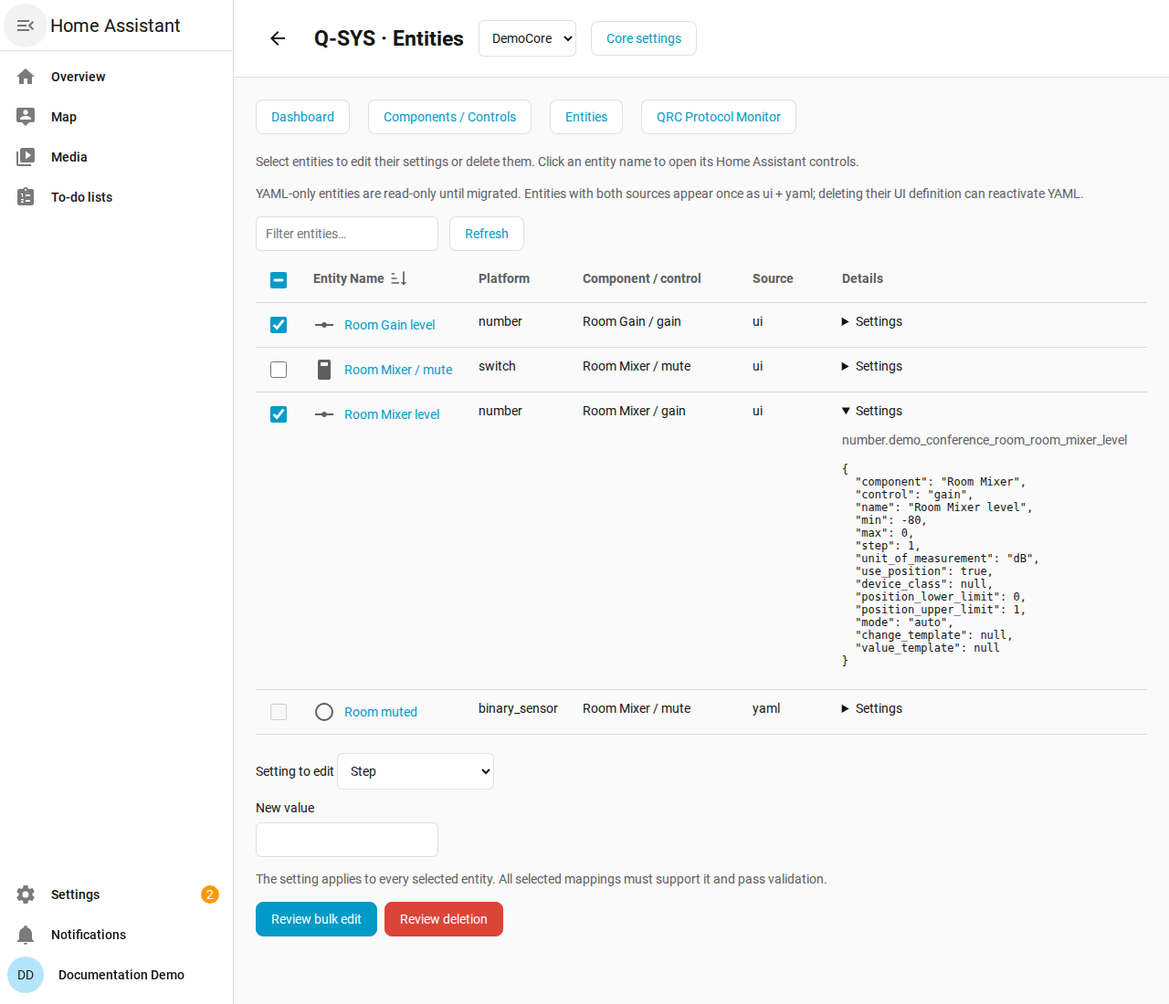
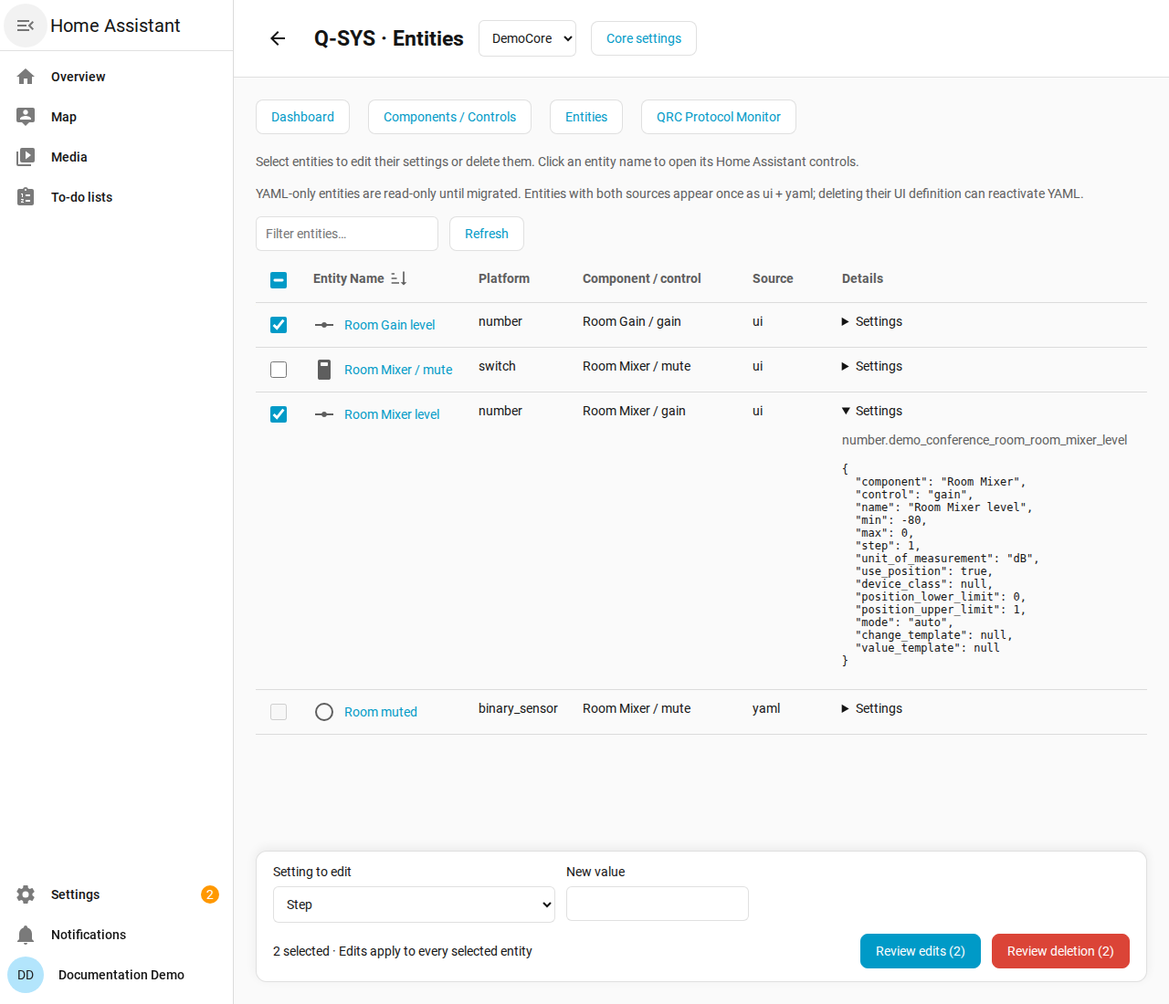
Pin entity editing and deletion actions with consistent review counts

diff --git a/custom_components/qsys_qrc/frontend/panel.js b/custom_components/qsys_qrc/frontend/panel.js
@@ -73,9 +73,9 @@ class QsysPanel extends HTMLElement {
     this.cancelledTraversal=null;
     if(pending.discard)history.go(pending.delta);
   }
-  updateCreationHeight(){if(this.view==='browser'){const height=Math.max(0,document.documentElement.clientHeight-Math.max(0,this.getBoundingClientRect().top));this.style.setProperty('--qsys-panel-height',`${height}px`);}}
-  connectedCallback() { this.resizeCreationPanel=()=>this.updateCreationHeight();window.addEventListener('resize',this.resizeCreationPanel);this.installLeaveGuard(); if(this._hass&&!this.started){this.started=true;this.run(()=>this.initialize());} this.timer=setInterval(()=>{if(this.view==='monitor'&&!this.paused&&!this.busy)this.refreshMonitor();if(this.view==='browser'&&this.selectedComponents.size&&this.controls.length&&!this.busy&&!this.polling)this.pollValues();},1500); }
-  disconnectedCallback(){ window.removeEventListener('resize',this.resizeCreationPanel);clearInterval(this.timer);this.entityEventGeneration=(this.entityEventGeneration||0)+1;this.entityEventsUnsubscribe?.();this.entityEventsUnsubscribe=null;this.pendingEntityInventory=null;this.started=false;window.navigation?.removeEventListener('navigate',this.leaveTraverse);window.removeEventListener('beforeunload',this.beforeUnload);window.removeEventListener('click',this.leaveClick,true);window.removeEventListener('location-changed',this.leaveLocation,true);window.removeEventListener('popstate',this.leaveLocation,true); }
+  updateActionPanelHeight(){if(['browser','entities'].includes(this.view)){const height=Math.max(0,document.documentElement.clientHeight-Math.max(0,this.getBoundingClientRect().top));this.style.setProperty('--qsys-panel-height',`${height}px`);}}
+  connectedCallback() { this.resizeActionPanel=()=>this.updateActionPanelHeight();window.addEventListener('resize',this.resizeActionPanel);this.installLeaveGuard(); if(this._hass&&!this.started){this.started=true;this.run(()=>this.initialize());} this.timer=setInterval(()=>{if(this.view==='monitor'&&!this.paused&&!this.busy)this.refreshMonitor();if(this.view==='browser'&&this.selectedComponents.size&&this.controls.length&&!this.busy&&!this.polling)this.pollValues();},1500); }
+  disconnectedCallback(){ window.removeEventListener('resize',this.resizeActionPanel);clearInterval(this.timer);this.entityEventGeneration=(this.entityEventGeneration||0)+1;this.entityEventsUnsubscribe?.();this.entityEventsUnsubscribe=null;this.pendingEntityInventory=null;this.started=false;window.navigation?.removeEventListener('navigate',this.leaveTraverse);window.removeEventListener('beforeunload',this.beforeUnload);window.removeEventListener('click',this.leaveClick,true);window.removeEventListener('location-changed',this.leaveLocation,true);window.removeEventListener('popstate',this.leaveLocation,true); }
   async api(operation,params={}) {return this._hass.callWS({type:'qsys_qrc/panel',operation,...(this.entry?{entry_id:this.entry}:{}),...params});}
   async run(fn){if(this.busy)return;this.actionFocus=this.shadowRoot.activeElement?.dataset.action;this.captureForm();this.busy=true;this.error='';this.shadowRoot.querySelectorAll('button,input,select,textarea').forEach(b=>b.disabled=true);try{await fn();}catch(e){this.error=e.message||String(e);}finally{this.busy=false;this.render();if(this.pendingRoute){this.pendingRoute=false;this.routeChanged();}this.refreshEntityInventory();}}
   async load(){const data=await this.api('overview');this.cores=data.cores;if(!this.cores.some(c=>c.entry_id===this.entry))this.entry=this.cores[0]?.entry_id;}
@@ -383,6 +383,7 @@ class QsysPanel extends HTMLElement {
   helpTooltip(id,label,text){
     return `<span class="help"><button type="button" class="help-icon" aria-label="About ${escapeHTML(label)}" aria-describedby="help-${id}">?</button><span class="help-tooltip" role="tooltip" id="help-${id}">${escapeHTML(text)}</span></span>`;
   }
+  renderEntityBar(){return `<section class="action-bar entity-action-bar" aria-label="Manage selected entities"><div class="edit-controls"><label>Setting to edit <select id="edit-field">${this.editableFields().map(([v,label])=>`<option value="${v}" ${(this.editField||'name')===v?'selected':''}>${label}</option>`).join('')}</select></label>${this.editInput()}</div><div class="entity-action-footer"><span role="status">${this.selected.size} selected · Edits apply to every selected entity</span><div class="entity-actions">${this.button(`Review edits (${this.selected.size})`,'edit',this.selected.size?'class="filled"':'disabled')}${this.button(`Review deletion (${this.selected.size})`,'delete',`class="danger ${this.selected.size?'filled':''}" ${this.selected.size?'':'disabled'}`)}</div></div></section>`;}
   renderCreationBar(){return `<div class="action-bar" aria-label="Create entities"><span role="status">${this.selected.size} selected for creation</span>${this.button(`Review creation (${this.selected.size})`,'create',this.selected.size?'class="filled"':'disabled')}</div>`;}
   renderBrowser(){
     const sortedControls=this.sortedRows(this.controls,'controls');
@@ -402,7 +403,7 @@ class QsysPanel extends HTMLElement {
       icon.stateObj=this._hass?.states[row.entity_id]||{entity_id:row.entity_id||`${row.mapping.platform}.qsys_preview`,state:'unavailable',attributes:{device_class:row.mapping.settings.device_class}};
     });
   }
-  renderEntities(migrate=false){return `<p>${migrate?'Select definitions configured via Home Assistant YAML to transfer ownership to the UI. Remove transferred definitions from your YAML files afterward.':'Select entities to edit their settings or delete them. Click an entity name to open its Home Assistant controls.'}</p>${this.inventory.some(row=>row.source==='yaml')?'<p>YAML-only entities are read-only until migrated. Entities with both sources appear once as ui + yaml; deleting their UI definition can reactivate YAML.</p>':''}${!this.entityRows(migrate).length?`<section class="empty-state"><h2>${migrate?'No YAML entities to migrate':'No entities yet'}</h2><p>${migrate?'This Core has no entity definitions in Home Assistant YAML.':'Choose components or look up Named Controls to create your first entities.'}</p>${migrate?'':this.button('Add entities','navigate','data-view="browser" class="filled"')}</section>`:''}${this.toolbar()}<div class="table"><table><thead><tr><th><input id="all" type="checkbox" aria-label="Select visible mappings"></th>${this.sortHeader('Entity Name','entities','name')}${this.sortHeader('Platform','entities','platform')}${this.sortHeader('Component / control','entities','target')}${this.sortHeader('Source','entities','source')}${this.sortHeader('Details','entities','details')}</tr></thead><tbody>${this.entityRows(migrate).map(({item:r,index:i})=>{const m=r.mapping,s=m.settings,enabled=migrate?r.source==='yaml':r.source==='ui';return `<tr data-entity-row="${i}" data-search="${escapeHTML([JSON.stringify(m),r.entity_name,r.entity_id,r.displaySource||r.source].filter(Boolean).join(' '))}"><td><input data-select="${i}" type="checkbox" aria-label="Select ${escapeHTML(s.name||s.control||s.component)}" ${enabled?'':'disabled'} ${this.selected.has(i)?'checked':''}></td><td>${this.entityNameCell(r,i)}</td><td>${m.platform}</td><td>${escapeHTML(s.component||'Named Control')} / ${escapeHTML(s.control||'media player')}</td><td>${r.displaySource||r.source}</td><td><details><summary>Settings</summary>${r.entity_id?`<p>${escapeHTML(r.entity_id)}</p>`:''}${r.cleanup_pending?'<p>Remove the transferred definition from Home Assistant YAML.</p>':''}${r.yaml_conflict?'<p>The definition configured via Home Assistant YAML changed after migration.</p>':''}<pre>${escapeHTML(JSON.stringify(s,null,2))}</pre></details></td></tr>`;}).join('')}</tbody></table></div>${migrate?`<label>Existing UI mappings <select id="collision"><option value="skip" ${this.collision!=='replace'?'selected':''}>Skip</option><option value="replace" ${this.collision==='replace'?'selected':''}>Replace</option></select></label>${this.button(`Review migration (${this.selected.size})`,'migrate',this.selected.size?'class="filled"':'disabled')}`:`<label>Setting to edit <select id="edit-field">${this.editableFields().map(([v,label])=>`<option value="${v}" ${(this.editField||'name')===v?'selected':''}>${label}</option>`).join('')}</select></label>${this.editInput()}<p>The setting applies to every selected entity. All selected mappings must support it and pass validation.</p>${this.button('Review bulk edit','edit',this.selected.size?'class="filled"':'disabled')}${this.button('Review deletion','delete',`class="danger ${this.selected.size?'filled':''}" ${this.selected.size?'':'disabled'}`)}`}`;}
+  renderEntities(migrate=false){return `<p>${migrate?'Select definitions configured via Home Assistant YAML to transfer ownership to the UI. Remove transferred definitions from your YAML files afterward.':'Select entities to edit their settings or delete them. Click an entity name to open its Home Assistant controls.'}</p>${this.inventory.some(row=>row.source==='yaml')?'<p>YAML-only entities are read-only until migrated. Entities with both sources appear once as ui + yaml; deleting their UI definition can reactivate YAML.</p>':''}${!this.entityRows(migrate).length?`<section class="empty-state"><h2>${migrate?'No YAML entities to migrate':'No entities yet'}</h2><p>${migrate?'This Core has no entity definitions in Home Assistant YAML.':'Choose components or look up Named Controls to create your first entities.'}</p>${migrate?'':this.button('Add entities','navigate','data-view="browser" class="filled"')}</section>`:''}${this.toolbar()}<div class="table"><table><thead><tr><th><input id="all" type="checkbox" aria-label="Select visible mappings"></th>${this.sortHeader('Entity Name','entities','name')}${this.sortHeader('Platform','entities','platform')}${this.sortHeader('Component / control','entities','target')}${this.sortHeader('Source','entities','source')}${this.sortHeader('Details','entities','details')}</tr></thead><tbody>${this.entityRows(migrate).map(({item:r,index:i})=>{const m=r.mapping,s=m.settings,enabled=migrate?r.source==='yaml':r.source==='ui';return `<tr data-entity-row="${i}" data-search="${escapeHTML([JSON.stringify(m),r.entity_name,r.entity_id,r.displaySource||r.source].filter(Boolean).join(' '))}"><td><input data-select="${i}" type="checkbox" aria-label="Select ${escapeHTML(s.name||s.control||s.component)}" ${enabled?'':'disabled'} ${this.selected.has(i)?'checked':''}></td><td>${this.entityNameCell(r,i)}</td><td>${m.platform}</td><td>${escapeHTML(s.component||'Named Control')} / ${escapeHTML(s.control||'media player')}</td><td>${r.displaySource||r.source}</td><td><details><summary>Settings</summary>${r.entity_id?`<p>${escapeHTML(r.entity_id)}</p>`:''}${r.cleanup_pending?'<p>Remove the transferred definition from Home Assistant YAML.</p>':''}${r.yaml_conflict?'<p>The definition configured via Home Assistant YAML changed after migration.</p>':''}<pre>${escapeHTML(JSON.stringify(s,null,2))}</pre></details></td></tr>`;}).join('')}</tbody></table></div>${migrate?`<label>Existing UI mappings <select id="collision"><option value="skip" ${this.collision!=='replace'?'selected':''}>Skip</option><option value="replace" ${this.collision==='replace'?'selected':''}>Replace</option></select></label>${this.button(`Review migration (${this.selected.size})`,'migrate',this.selected.size?'class="filled"':'disabled')}`:``}`;}
   renderTransport(){if(this.view==='export')return `<article class="card"><h2>Export portable YAML</h2><div class="tools">${this.button('Copy to clipboard','copy-export',this.exportDocument?'':'disabled')}${this.button('Download','export',this.exportDocument?'':'disabled')}</div><label><input id="effective" type="checkbox" ${this.effective?'checked':''}> Include active Home Assistant YAML mappings</label><p>Connection credentials and installation IDs are excluded.</p><pre id="export-document">${escapeHTML(this.exportDocument||'')}</pre></article>`;return `<article class="card"><h2>Import portable YAML</h2><label>Upload YAML <input id="file" type="file" accept=".yaml,.yml,.json"></label><label>Or paste YAML<textarea id="document" rows="14">${escapeHTML(this.document||'')}</textarea></label><label>Collisions <select id="collision"><option value="skip" ${this.collision!=='replace'?'selected':''}>Skip existing</option><option value="replace" ${this.collision==='replace'?'selected':''}>Replace existing</option></select></label><label><input id="transfer" type="checkbox" ${this.transfer?'checked':''}> Transfer ownership of colliding Home Assistant YAML mappings</label><p>Review discovery findings and changes before saving. Maximum 256 KiB and 1,000 mappings.</p>${this.button('Review import','import')}</article>`;}
   renderMonitor(){return `<div class="tools">${this.button(this.capture?'Stop capture':'Start capture','capture')}${this.button(this.paused?'Resume display':'Pause display','pause')}${this.button('Clear buffer','clear')}${this.button('Download capture','download-monitor')}</div><p><span id="monitor-status">${this.capture?'Capturing':'Capture stopped'} · ${this.frames.length}/500 frames retained.</span> Login credentials are redacted. Frames over 32 KiB are truncated. Capture covers this integration’s Core connection; refreshing the display adds no QRC requests.</p><p id="monitor-error" class="error" role="alert" hidden></p><div class="tools"><select id="direction" aria-label="Direction"><option value="">Both directions</option><option value="sent" ${this.direction==='sent'?'selected':''}>Sent</option><option value="received" ${this.direction==='received'?'selected':''}>Received</option></select><input id="monitor-search" placeholder="Filter method, ID, or payload" aria-label="Filter protocol frames" value="${escapeHTML(this.monitorSearch||'')}"></div><div class="table"><table><thead><tr><th>Time</th><th>Direction</th><th>ID</th><th>JSON-RPC frame</th></tr></thead><tbody id="monitor-rows">${this.frames.slice().reverse().map(frame=>this.monitorRow(frame)).join('')}</tbody></table></div>`;}
   reviewCount(){return this.review.changes.filter(c=>c.action!=='skip').length;}
@@ -431,15 +432,15 @@ class QsysPanel extends HTMLElement {
   render(){
     const mainScroll=this.renderedView===this.view?this.shadowRoot.querySelector('main')?.scrollTop||0:0;
     this.renderedView=this.view;
-    this.toggleAttribute('creating',this.view==='browser'&&!!this.cores.length);
+    this.toggleAttribute('pinned-actions',['browser','entities'].includes(this.view)&&!!this.cores.length);
     const hadReview=!!this.shadowRoot.querySelector('#review-dialog');
     const expanded=new Set([...this.shadowRoot.querySelectorAll("details[data-frame][open]")].map(el=>el.dataset.frame));
     if(this.view==='entities'&&!this.editableFields().some(([field])=>field===(this.editField||'name'))){this.editField='name';this.editValue='';}
     const titles={overview:'Dashboard',browser:'Components / Controls',entities:'Entities',monitor:'QRC Protocol Monitor',diagnostics:'Diagnostics',import:'Import YAML',export:'Export YAML',migrate:'Migrate from Home Assistant YAML'};
     this.shadowRoot.innerHTML=`<style>
-      :host{display:block;height:100%;overflow:auto;background:var(--primary-background-color);color:var(--primary-text-color);font-family:var(--paper-font-body1_-_font-family,Roboto,Arial,sans-serif)}*{box-sizing:border-box}[hidden]{display:none!important}header{display:flex;align-items:center;gap:16px;padding:18px 24px;background:var(--card-background-color);border-bottom:1px solid var(--divider-color)}header h1{margin:0;font-size:23px}main{max-width:1400px;margin:auto;padding:24px}nav,.tools{display:flex;flex-wrap:wrap;align-items:center;gap:12px;margin-bottom:20px}.grid{display:grid;grid-template-columns:repeat(auto-fit,minmax(250px,1fr));gap:18px;margin-bottom:32px}.card,.review{background:var(--card-background-color);border:1px solid var(--divider-color);border-radius:12px;padding:22px;text-align:left}.browser-config-card{margin-bottom:18px}.browser-config-card .tools:last-child{margin-bottom:0}.section-heading{display:flex;align-items:center;gap:8px;margin-bottom:12px}.section-heading h2{margin:0}.help{position:relative;display:inline-flex}.help-icon{display:inline-flex;align-items:center;justify-content:center;width:20px;height:20px;padding:0;margin:0;border-radius:50%;font-size:14px;font-weight:600;color:var(--secondary-text-color)}.help-icon:focus-visible{outline:2px solid var(--primary-color);outline-offset:3px}.card .help-tooltip{position:absolute;top:28px;left:-36px;z-index:2;width:300px;max-width:calc(100vw - 90px);padding:12px;border:1px solid var(--divider-color);border-radius:8px;background:var(--card-background-color);color:var(--primary-text-color);font-size:14px;line-height:1.5;box-shadow:0 3px 12px #0003;visibility:hidden;pointer-events:none}.help:hover .help-tooltip,.help:focus-within .help-tooltip{visibility:visible}.card h2{margin:0 0 12px;font-size:19px}.card .section-heading h2{margin:0}.card p,p{line-height:1.5;color:var(--secondary-text-color)}.card span{color:var(--primary-color)}button{cursor:pointer;color:var(--primary-color);background:var(--card-background-color);border:1px solid var(--divider-color);border-radius:8px;padding:10px 16px;font:inherit;margin-right:8px}button.sort-header{display:inline-flex;align-items:center;gap:6px;border:0;padding:0;margin:0;background:transparent;color:inherit;font-weight:600;text-align:left}.sort-icon{--mdc-icon-size:20px;width:20px;height:20px;flex:0 0 20px}.sort-icon.inactive{visibility:hidden}button.sort-header:hover{color:var(--primary-color)}.entity-label{display:inline-flex;align-items:center;gap:10px}.entity-label ha-state-icon{--mdc-icon-size:24px;width:24px;height:24px;flex:0 0 24px;color:var(--secondary-text-color)}button.entity-name{border:0;padding:0;margin:0;text-align:left;background:transparent}button.entity-name:hover{text-decoration:underline}button:hover{border-color:var(--primary-color)}button.filled{background:var(--primary-color);border-color:var(--primary-color);color:var(--text-primary-color,#fff)}button.danger{color:var(--error-color);border-color:var(--error-color)}button.danger.filled{background:var(--error-color);color:var(--text-primary-color,#fff)}button.filled:hover{filter:brightness(.92)}button:disabled{opacity:.5;cursor:not-allowed}:host([creating]){height:var(--qsys-panel-height,100dvh);display:flex;flex-direction:column;overflow:hidden}:host([creating]) header{flex-shrink:0}:host([creating]) main{flex:1;min-height:0;overflow:auto;width:100%}.action-bar{flex-shrink:0;width:calc(100% - 48px);max-width:1352px;margin:0 auto 24px;z-index:3;display:flex;align-items:center;justify-content:space-between;flex-wrap:wrap;gap:12px;padding:14px 18px;background:var(--card-background-color);border:1px solid var(--divider-color);border-radius:12px;box-shadow:0 -3px 12px #0001}.action-bar button{margin:0}.empty-state{padding:20px;border:1px dashed var(--divider-color);border-radius:8px}input,select,textarea{font:inherit;color:var(--primary-text-color);background:var(--card-background-color);border:1px solid var(--divider-color);border-radius:6px;padding:10px;max-width:100%}input[type=checkbox]{width:18px;height:18px;accent-color:var(--primary-color)}label{display:block;margin:12px 0}.edit-value-label>input,.edit-value-label>select,.edit-value-label>textarea{display:block;margin-top:8px}textarea{display:block;width:100%;margin:10px 0;font-family:monospace}.component-picker{display:grid;grid-template-columns:repeat(auto-fit,minmax(min(100%,320px),1fr));gap:12px 20px}.component-picker.single-column{grid-template-columns:1fr}.component-picker label{display:flex;align-items:flex-start;gap:10px;min-width:0;margin:4px 0;cursor:pointer}.component-picker input[type=checkbox]{flex:0 0 18px;margin:2px 0 0}.component-picker .component-label{display:flex;flex-direction:column;align-items:flex-start;gap:4px;min-width:0}.component-picker .component-name{color:var(--primary-text-color);font-size:inherit;overflow-wrap:anywhere;min-width:0}.component-picker .component-type{color:var(--secondary-text-color);font-size:12px;overflow-wrap:anywhere}.mapped-row{background:var(--secondary-background-color)}.mapped-row td{color:var(--disabled-text-color,var(--secondary-text-color))}.mapped-row input{opacity:.55}.mapped-badge{display:block;font-size:12px;margin-top:4px}button.mapped-link{padding:0;margin:4px 0 0;border:0;background:transparent;text-align:left}button.mapped-link:hover{text-decoration:underline}.component-group th{background:var(--secondary-background-color);color:var(--primary-text-color)}.table-filter{margin-bottom:8px}.table-filter+.table{margin-top:0}.table{overflow:auto;margin:20px 0}table{border-collapse:collapse;width:100%;text-align:left}th,td{padding:12px;border-bottom:1px solid var(--divider-color);vertical-align:top}th{color:var(--secondary-text-color)}pre{white-space:pre-wrap;overflow-wrap:anywhere;font-size:12px;max-width:800px}summary{cursor:pointer}.badge{font-size:12px}.error{padding:16px;border-radius:8px;background:var(--error-color);color:white}.message{padding:12px;border:1px solid var(--primary-color)}#review-dialog{width:min(900px,calc(100vw - 32px));max-height:calc(100dvh - 32px);padding:0;border:1px solid var(--divider-color);border-radius:12px;background:var(--card-background-color);color:var(--primary-text-color)}#review-dialog::backdrop{background:rgba(0,0,0,.5)}.review{margin:0;border:0}.review h2{margin-top:0}.review-content{overflow:auto;max-height:55dvh}.review-actions{display:flex;justify-content:flex-end;gap:12px;flex-wrap:wrap;margin-top:20px}.review-actions button{margin:0}@media(max-width:600px){.action-bar{width:calc(100% - 28px);margin-bottom:14px}main{padding:14px}header{padding:14px;flex-wrap:wrap}header select{width:100%}.grid{grid-template-columns:1fr}}
-    </style><header><ha-icon-button id="back" data-action="back" label="Back to Connectivity"></ha-icon-button><h1>Q-SYS · ${titles[this.view]}</h1><select id="core" aria-label="Q-SYS Core">${this.cores.map(c=>`<option value="${escapeHTML(c.entry_id)}" ${c.entry_id===this.entry?'selected':''}>${escapeHTML(c.name)}</option>`).join('')}</select>${this.cores.length?this.button('Core settings','core-settings'):''}</header><main><nav>${Object.entries(titles).filter(([v])=>['overview','browser','entities','monitor'].includes(v)).map(([v,t])=>this.button(t,'navigate',`data-view="${v}" ${this.view===v?'aria-current="page"':''}`)).join('')}</nav>${this.error?`<p class="error" role="alert">${escapeHTML(this.error)}</p>`:''}${this.message?`<div class="message"><p role="status">${escapeHTML(this.message)}${this.reloadPending?' Updating entities…':''}</p>${this.messageEntities?this.button('View entities','navigate','data-view="entities"'):''}</div>`:''}${!this.cores.length?`<section class="card"><h2>Connect your first Core</h2><p>Open Settings → Devices &amp; services, choose Add integration, and search for Q-Sys QRC. Then return here to create entities. No YAML is required.</p>${this.button('Open integration settings','core-settings')}</section>`:this.view==='overview'?this.renderOverview():this.view==='browser'?this.renderBrowser():this.view==='entities'||this.view==='migrate'?this.renderEntities(this.view==='migrate'):this.view==='monitor'?this.renderMonitor():this.view==='diagnostics'?`<div class="grid">${this.cores.map(c=>`<article class="card"><h2>${escapeHTML(c.name)}</h2><p>${escapeHTML(c.status)}</p>${c.last_error?`<p role="alert">${escapeHTML(c.last_error)}</p>`:''}<p>Design information recorded when the Core was configured:</p><pre>${escapeHTML(JSON.stringify(c.engine,null,2))}</pre><p>Use the Protocol Monitor to inspect errors and polling responses. Core connection changes are available under Settings → Devices & services → Q-SYS → Reconfigure.</p></article>`).join('')}</div>`:this.renderTransport()}${this.review?this.renderReview():''}</main>${this.view==='browser'&&this.cores.length?this.renderCreationBar():''}`;
-    this.updateCreationHeight();
+      :host{display:block;height:100%;overflow:auto;background:var(--primary-background-color);color:var(--primary-text-color);font-family:var(--paper-font-body1_-_font-family,Roboto,Arial,sans-serif)}*{box-sizing:border-box}[hidden]{display:none!important}header{display:flex;align-items:center;gap:16px;padding:18px 24px;background:var(--card-background-color);border-bottom:1px solid var(--divider-color)}header h1{margin:0;font-size:23px}main{max-width:1400px;margin:auto;padding:24px}nav,.tools{display:flex;flex-wrap:wrap;align-items:center;gap:12px;margin-bottom:20px}.grid{display:grid;grid-template-columns:repeat(auto-fit,minmax(250px,1fr));gap:18px;margin-bottom:32px}.card,.review{background:var(--card-background-color);border:1px solid var(--divider-color);border-radius:12px;padding:22px;text-align:left}.browser-config-card{margin-bottom:18px}.browser-config-card .tools:last-child{margin-bottom:0}.section-heading{display:flex;align-items:center;gap:8px;margin-bottom:12px}.section-heading h2{margin:0}.help{position:relative;display:inline-flex}.help-icon{display:inline-flex;align-items:center;justify-content:center;width:20px;height:20px;padding:0;margin:0;border-radius:50%;font-size:14px;font-weight:600;color:var(--secondary-text-color)}.help-icon:focus-visible{outline:2px solid var(--primary-color);outline-offset:3px}.card .help-tooltip{position:absolute;top:28px;left:-36px;z-index:2;width:300px;max-width:calc(100vw - 90px);padding:12px;border:1px solid var(--divider-color);border-radius:8px;background:var(--card-background-color);color:var(--primary-text-color);font-size:14px;line-height:1.5;box-shadow:0 3px 12px #0003;visibility:hidden;pointer-events:none}.help:hover .help-tooltip,.help:focus-within .help-tooltip{visibility:visible}.card h2{margin:0 0 12px;font-size:19px}.card .section-heading h2{margin:0}.card p,p{line-height:1.5;color:var(--secondary-text-color)}.card span{color:var(--primary-color)}button{cursor:pointer;color:var(--primary-color);background:var(--card-background-color);border:1px solid var(--divider-color);border-radius:8px;padding:10px 16px;font:inherit;margin-right:8px}button.sort-header{display:inline-flex;align-items:center;gap:6px;border:0;padding:0;margin:0;background:transparent;color:inherit;font-weight:600;text-align:left}.sort-icon{--mdc-icon-size:20px;width:20px;height:20px;flex:0 0 20px}.sort-icon.inactive{visibility:hidden}button.sort-header:hover{color:var(--primary-color)}.entity-label{display:inline-flex;align-items:center;gap:10px}.entity-label ha-state-icon{--mdc-icon-size:24px;width:24px;height:24px;flex:0 0 24px;color:var(--secondary-text-color)}button.entity-name{border:0;padding:0;margin:0;text-align:left;background:transparent}button.entity-name:hover{text-decoration:underline}button:hover{border-color:var(--primary-color)}button.filled{background:var(--primary-color);border-color:var(--primary-color);color:var(--text-primary-color,#fff)}button.danger{color:var(--error-color);border-color:var(--error-color)}button.danger.filled{background:var(--error-color);color:var(--text-primary-color,#fff)}button.filled:hover{filter:brightness(.92)}button:disabled{opacity:.5;cursor:not-allowed}:host([pinned-actions]){height:var(--qsys-panel-height,100dvh);display:flex;flex-direction:column;overflow:hidden}:host([pinned-actions]) header{flex-shrink:0}:host([pinned-actions]) main{flex:1;min-height:0;overflow:auto;width:100%}.action-bar{flex-shrink:0;width:calc(100% - 48px);max-width:1352px;margin:0 auto 24px;z-index:3;display:flex;align-items:center;justify-content:space-between;flex-wrap:wrap;gap:12px;padding:14px 18px;background:var(--card-background-color);border:1px solid var(--divider-color);border-radius:12px;box-shadow:0 -3px 12px #0001}.action-bar button{margin:0}.entity-action-bar{display:block;max-height:60dvh;overflow:auto}.edit-controls{display:grid;grid-template-columns:minmax(160px,1fr) minmax(200px,2fr);gap:12px;margin-bottom:12px}.edit-controls label{margin:0}.edit-controls select{display:block;width:100%;margin-top:8px}.edit-controls p{grid-column:1/-1;margin:0}.entity-action-footer{position:sticky;bottom:0;display:flex;align-items:center;justify-content:space-between;flex-wrap:wrap;gap:12px;background:var(--card-background-color)}.entity-actions{display:flex;flex-wrap:wrap;gap:12px}.empty-state{padding:20px;border:1px dashed var(--divider-color);border-radius:8px}input,select,textarea{font:inherit;color:var(--primary-text-color);background:var(--card-background-color);border:1px solid var(--divider-color);border-radius:6px;padding:10px;max-width:100%}input[type=checkbox]{width:18px;height:18px;accent-color:var(--primary-color)}label{display:block;margin:12px 0}.edit-value-label>input,.edit-value-label>select,.edit-value-label>textarea{display:block;margin-top:8px}textarea{display:block;width:100%;margin:10px 0;font-family:monospace}.component-picker{display:grid;grid-template-columns:repeat(auto-fit,minmax(min(100%,320px),1fr));gap:12px 20px}.component-picker.single-column{grid-template-columns:1fr}.component-picker label{display:flex;align-items:flex-start;gap:10px;min-width:0;margin:4px 0;cursor:pointer}.component-picker input[type=checkbox]{flex:0 0 18px;margin:2px 0 0}.component-picker .component-label{display:flex;flex-direction:column;align-items:flex-start;gap:4px;min-width:0}.component-picker .component-name{color:var(--primary-text-color);font-size:inherit;overflow-wrap:anywhere;min-width:0}.component-picker .component-type{color:var(--secondary-text-color);font-size:12px;overflow-wrap:anywhere}.mapped-row{background:var(--secondary-background-color)}.mapped-row td{color:var(--disabled-text-color,var(--secondary-text-color))}.mapped-row input{opacity:.55}.mapped-badge{display:block;font-size:12px;margin-top:4px}button.mapped-link{padding:0;margin:4px 0 0;border:0;background:transparent;text-align:left}button.mapped-link:hover{text-decoration:underline}.component-group th{background:var(--secondary-background-color);color:var(--primary-text-color)}.table-filter{margin-bottom:8px}.table-filter+.table{margin-top:0}.table{overflow:auto;margin:20px 0}table{border-collapse:collapse;width:100%;text-align:left}th,td{padding:12px;border-bottom:1px solid var(--divider-color);vertical-align:top}th{color:var(--secondary-text-color)}pre{white-space:pre-wrap;overflow-wrap:anywhere;font-size:12px;max-width:800px}summary{cursor:pointer}.badge{font-size:12px}.error{padding:16px;border-radius:8px;background:var(--error-color);color:white}.message{padding:12px;border:1px solid var(--primary-color)}#review-dialog{width:min(900px,calc(100vw - 32px));max-height:calc(100dvh - 32px);padding:0;border:1px solid var(--divider-color);border-radius:12px;background:var(--card-background-color);color:var(--primary-text-color)}#review-dialog::backdrop{background:rgba(0,0,0,.5)}.review{margin:0;border:0}.review h2{margin-top:0}.review-content{overflow:auto;max-height:55dvh}.review-actions{display:flex;justify-content:flex-end;gap:12px;flex-wrap:wrap;margin-top:20px}.review-actions button{margin:0}@media(max-width:600px){.edit-controls{grid-template-columns:1fr}.action-bar{width:calc(100% - 28px);margin-bottom:14px}main{padding:14px}header{padding:14px;flex-wrap:wrap}header select{width:100%}.grid{grid-template-columns:1fr}}
+    </style><header><ha-icon-button id="back" data-action="back" label="Back to Connectivity"></ha-icon-button><h1>Q-SYS · ${titles[this.view]}</h1><select id="core" aria-label="Q-SYS Core">${this.cores.map(c=>`<option value="${escapeHTML(c.entry_id)}" ${c.entry_id===this.entry?'selected':''}>${escapeHTML(c.name)}</option>`).join('')}</select>${this.cores.length?this.button('Core settings','core-settings'):''}</header><main><nav>${Object.entries(titles).filter(([v])=>['overview','browser','entities','monitor'].includes(v)).map(([v,t])=>this.button(t,'navigate',`data-view="${v}" ${this.view===v?'aria-current="page"':''}`)).join('')}</nav>${this.error?`<p class="error" role="alert">${escapeHTML(this.error)}</p>`:''}${this.message?`<div class="message"><p role="status">${escapeHTML(this.message)}${this.reloadPending?' Updating entities…':''}</p>${this.messageEntities?this.button('View entities','navigate','data-view="entities"'):''}</div>`:''}${!this.cores.length?`<section class="card"><h2>Connect your first Core</h2><p>Open Settings → Devices &amp; services, choose Add integration, and search for Q-Sys QRC. Then return here to create entities. No YAML is required.</p>${this.button('Open integration settings','core-settings')}</section>`:this.view==='overview'?this.renderOverview():this.view==='browser'?this.renderBrowser():this.view==='entities'||this.view==='migrate'?this.renderEntities(this.view==='migrate'):this.view==='monitor'?this.renderMonitor():this.view==='diagnostics'?`<div class="grid">${this.cores.map(c=>`<article class="card"><h2>${escapeHTML(c.name)}</h2><p>${escapeHTML(c.status)}</p>${c.last_error?`<p role="alert">${escapeHTML(c.last_error)}</p>`:''}<p>Design information recorded when the Core was configured:</p><pre>${escapeHTML(JSON.stringify(c.engine,null,2))}</pre><p>Use the Protocol Monitor to inspect errors and polling responses. Core connection changes are available under Settings → Devices & services → Q-SYS → Reconfigure.</p></article>`).join('')}</div>`:this.renderTransport()}${this.review?this.renderReview():''}</main>${this.cores.length?(this.view==='browser'?this.renderCreationBar():this.view==='entities'?this.renderEntityBar():''):''}`;
+    this.updateActionPanelHeight();
     this.updateEntityIcons();
     const editInput=this.shadowRoot.querySelector('#edit-value');if(editInput&&(this.resetEditBaseline||this.cleanEditValue===undefined)){this.cleanEditValue=editInput.type==='checkbox'?editInput.checked:editInput.value;this.resetEditBaseline=false;}
     const reviewDialog=this.shadowRoot.querySelector('#review-dialog');

diff --git a/scripts/screenshots/panel.py b/scripts/screenshots/panel.py
@@ -492,8 +492,8 @@ async def capture(config):
                 }""")
                 await expect(panel.locator(".message")).to_contain_text("Created 3 entities.")
                 await panel.get_by_role("button", name="View entities", exact=True).click()
-                await expect(panel.get_by_role("button", name="Review bulk edit", exact=True)).to_be_disabled()
-                await expect(panel.get_by_role("button", name="Review deletion", exact=True)).to_be_disabled()
+                await expect(panel.get_by_role("button", name="Review edits (0)", exact=True)).to_be_disabled()
+                await expect(panel.get_by_role("button", name="Review deletion (0)", exact=True)).to_be_disabled()
                 assert (
                     await panel.get_by_role(
                         "columnheader", name="Status", exact=True
@@ -628,7 +628,7 @@ async def capture(config):
                 await panel.locator('[data-select="1"]').check()
                 await panel.locator("#edit-value").fill("Updated room control")
                 await panel.get_by_role(
-                    "button", name="Review bulk edit", exact=True
+                    "button", name="Review edits", exact=False
                 ).click()
                 await panel.locator("#review-title").wait_for()
                 await panel.get_by_role("button", name="Save", exact=True).click()
@@ -752,7 +752,7 @@ async def capture(config):
 
                 await panel.locator("#all").check()
                 await panel.get_by_role(
-                    "button", name="Review deletion", exact=True
+                    "button", name="Review deletion", exact=False
                 ).click()
                 await panel.get_by_text(
                     "Deleting this UI mapping reactivates", exact=False

diff --git a/README.md b/README.md
@@ -200,13 +200,15 @@ Each entity name has its Home Assistant icon. Click the icon or name to open the
 standard entity dialog. Expand **Settings** in the **Details** column to inspect
 the saved mapping and any YAML ownership notices.
 
-Select UI mappings with the table checkboxes:
+Select UI mappings with the table checkboxes. The pinned management bar keeps
+the selection count, setting editor, and review actions visible while scrolling.
+Both review buttons include the selected entity count:
 
 - To edit, choose a setting shared by the selected mappings and enter its new
   value. The editor uses a checkbox, numeric input, dropdown, text field, or
-  template/options textarea as appropriate. Click **Review bulk edit**, inspect
+  template/options textarea as appropriate. Click **Review edits (N)**, inspect
   the review dialog, then click **Save**.
-- To delete, click the red **Review deletion** button, inspect the review dialog,
+- To delete, click the red **Review deletion (N)** button, inspect the review dialog,
   then click **Delete**.
 
 For Select entities, choose **Select options (one per line)** to override QRC
